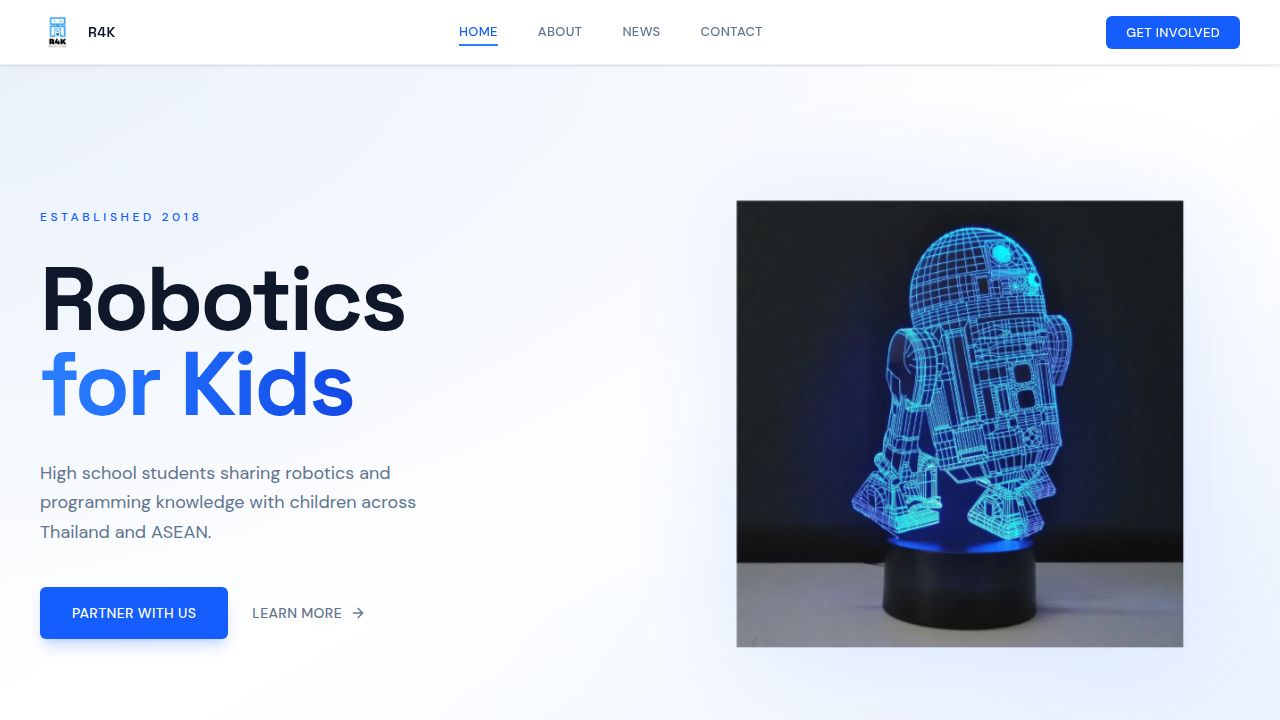
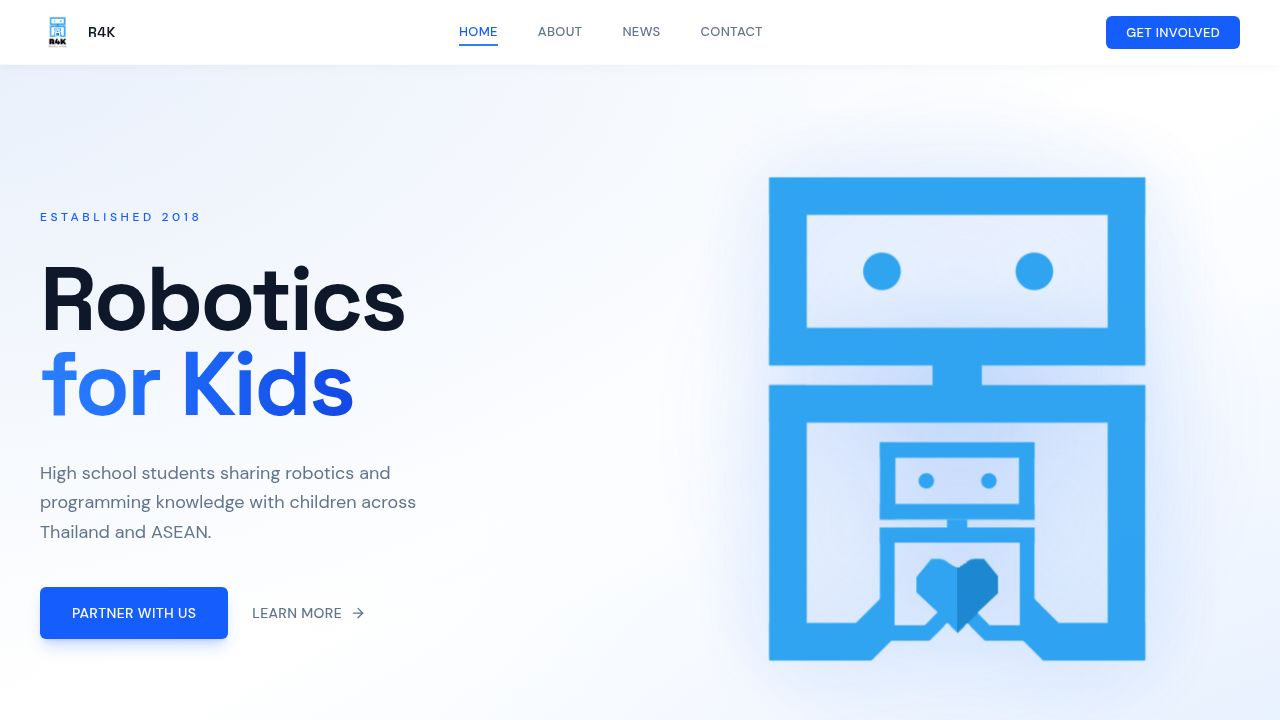
Update team member information and website images
Updates team member data in members.json, changes the hero image in Home.tsx by referencing a new asset, and updates opengraph.jpg.

Replit-Commit-Author: Agent
Replit-Commit-Session-Id: 0bdd92c9-189d-4b78-b036-c533a0e4f385
Replit-Commit-Checkpoint-Type: full_checkpoint
Replit-Commit-Event-Id: c28f477f-291a-4790-a84d-8035baecb2ce
Replit-Commit-Screenshot-Url: https://storage.googleapis.com/screenshot-production-us-central1/917f3131-2778-4af6-af46-7b28d1f18703/0bdd92c9-189d-4b78-b036-c533a0e4f385/9ZO3ahq

Changed region(s): [[0.5625, 0.2444, 0.9375, 0.9167], [0.0625, 0.825, 0.1562, 0.8556]]

diff --git a/client/src/pages/Home.tsx b/client/src/pages/Home.tsx
@@ -37,7 +37,7 @@ function CountUp({ target, suffix = "", duration = 2 }: { target: number; suffix
   return <span ref={ref}>{count}{suffix}</span>;
 }
 import { Link } from "wouter";
-import heroRobot from "@assets/image_1771215214856.png";
+import heroRobot from "@assets/image_1771418263555.png";
 
 const iconMap: Record<string, typeof Trophy> = { Trophy, Calendar, Heart, MapPin, Zap };
 
